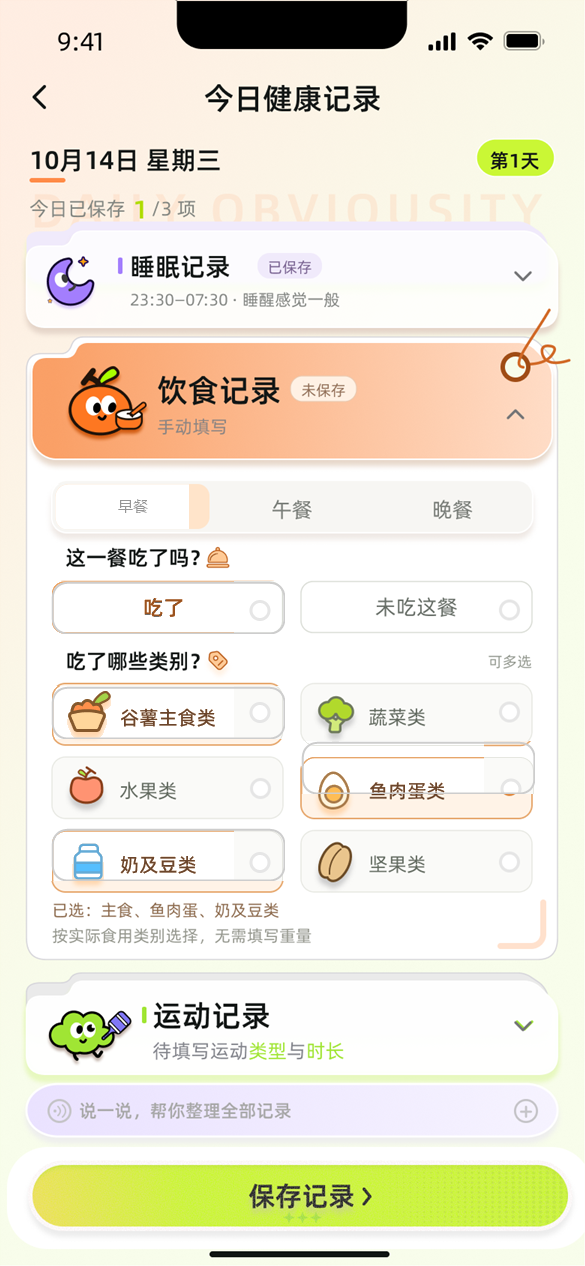
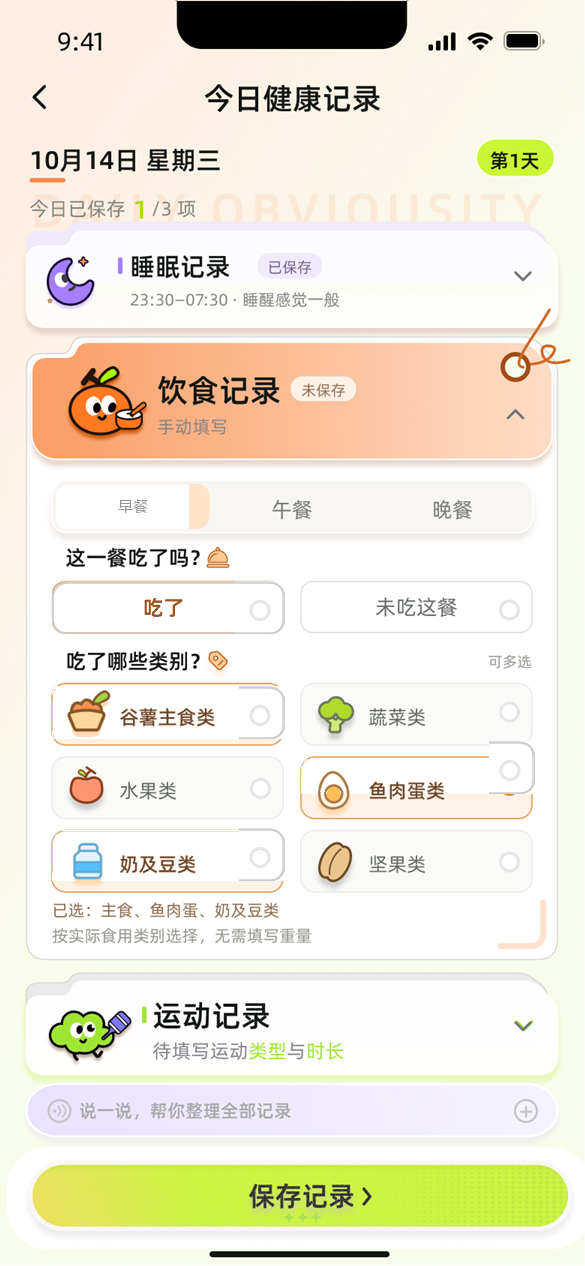
Clear residual selection on diet category chips like 吃了.
Keep only on-state overlays; neutralize base chips so deselect leaves no fill or stroke.

diff --git a/assets/health-proto.js b/assets/health-proto.js
@@ -101,7 +101,7 @@
       timePicker: true,
     },
     diet: {
-      src: "assets/works/health/proto/diet.png?v=20261103z2",
+      src: "assets/works/health/proto/diet.png?v=20261103z4",
       title: "饮食记录",
       hint: "早餐/午/晚可切换；「吃了」与谷薯/鱼肉蛋/奶豆默认选中；类别可多选；保存 → 运动",
       spots: [

diff --git a/health-app.html b/health-app.html
@@ -123,6 +123,6 @@
   </footer>
 
   <script src="assets/portfolio.js"></script>
-  <script src="assets/health-proto.js?v=20261103z2"></script>
+  <script src="assets/health-proto.js?v=20261103z4"></script>
 </body>
 </html>
